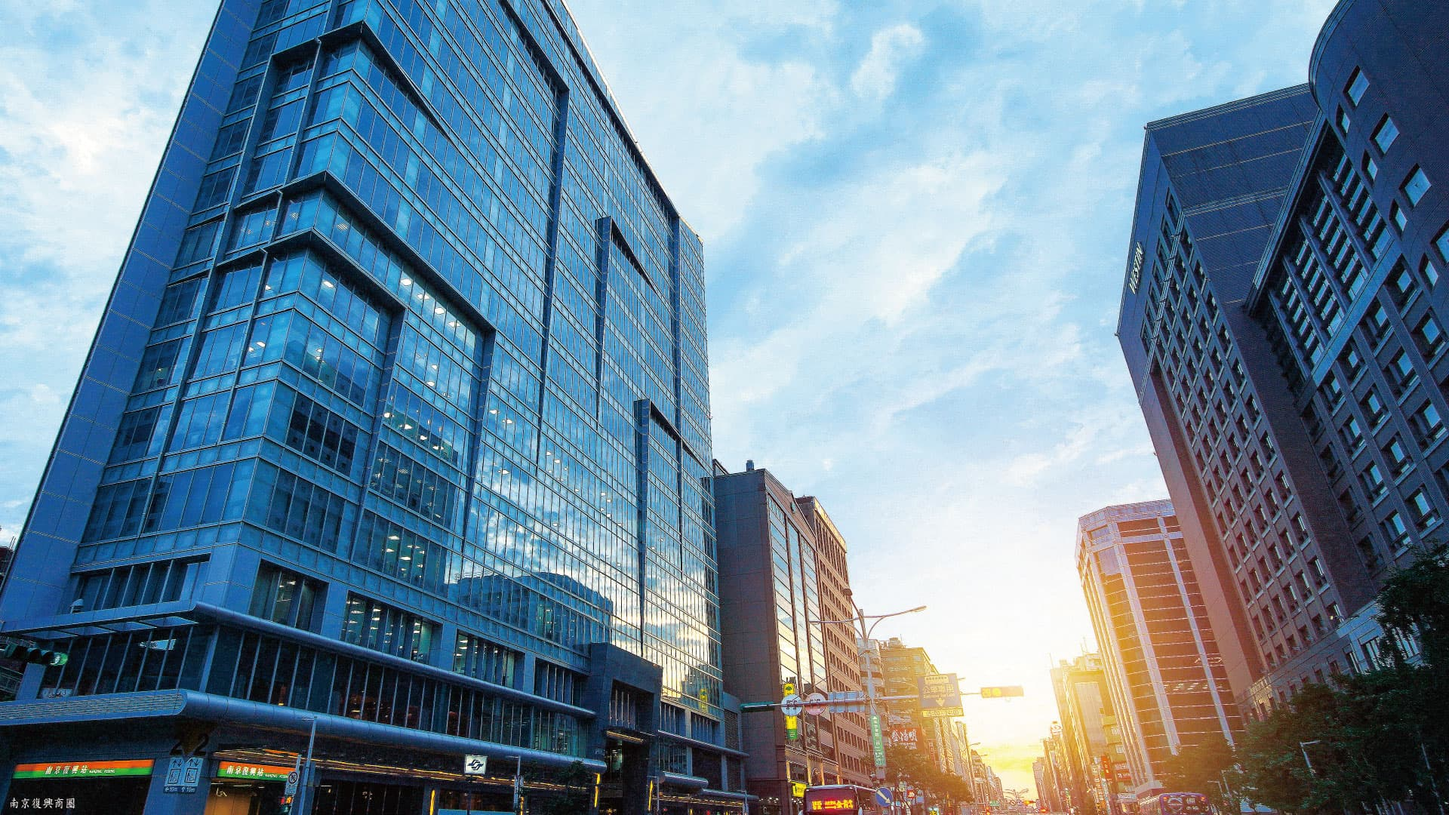
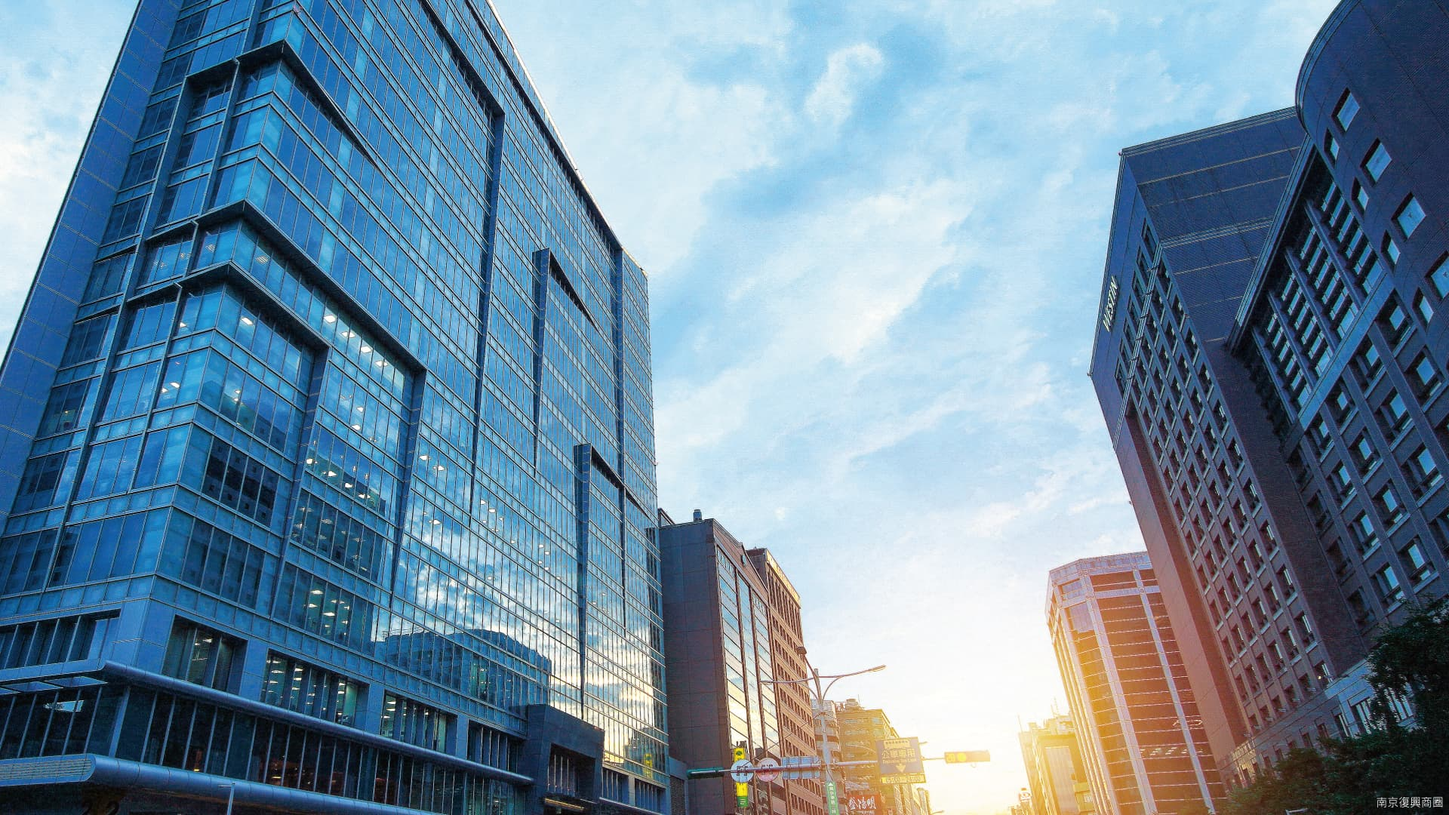
文案圖片修改

diff --git a/css/main.min.css b/css/main.min.css
@@ -1,2 +1,2 @@
-@font-face{font-family:MSungHK;src:url(../font/MSungHK-Medium.otf)}*,*::after,*::before{-webkit-box-sizing:border-box;box-sizing:border-box}html{font-size:16px}body{font-family:MSungHK, "微軟正黑體", "Microsoft JhengHei", "Century Gothic", CenturyGothic, AppleGothic, sans-serif}img{display:block}h1{font-family:MSungHK, "微軟正黑體", "Microsoft JhengHei", "Century Gothic", CenturyGothic, AppleGothic, sans-serif;font-weight:600;font-size:35px;color:#fff;letter-spacing:0.1px}h6{font-family:MSungHK, "微軟正黑體", "Microsoft JhengHei", "Century Gothic", CenturyGothic, AppleGothic, sans-serif;font-weight:300;font-size:16px;color:#fff}h3{margin-bottom:24px;color:#fff;font-size:32px;text-align:center}p{margin:0}.fontHei{font-family:"微軟正黑體", "Microsoft JhengHei", "Century Gothic", CenturyGothic, AppleGothic, sans-serif}.d_flex{display:-webkit-box;display:-ms-flexbox;display:flex;-webkit-box-pack:justify;-ms-flex-pack:justify;justify-content:space-between;-webkit-box-align:center;-ms-flex-align:center;align-items:center}.justify_start{-webkit-box-pack:start;-ms-flex-pack:start;justify-content:flex-start}.wrap{-ms-flex-wrap:wrap;flex-wrap:wrap}.bg_gold{background-color:#bf9d5a}.mt_3{margin-top:1.5rem}.mt_4{margin-top:2rem}.mb_3{margin-bottom:1.5rem}.mb_4{margin-bottom:2rem}.d_none{display:none !important}@media (max-width: 768px){.md_bg_gold{background-color:#bf9d5a}.d_md_none{display:none !important}.d_md_block{display:block !important}.d_md_block img{max-width:100%}.d_md_table{display:table !important}.d_md_table img{max-width:100%}.mb_md_0{margin-bottom:0}}#fp-nav{top:inherit;bottom:50px}#fp-nav ul li a span{background:#ffffff}.fp-controlArrow.fp-next{background-image:url("../images/desktop/Fillet_Right.png");border:none;width:52px;height:150px;opacity:0.5;right:0}.fp-controlArrow.fp-prev{background-image:url("../images/desktop/Fillet_Left.png");border:none;width:52px;height:150px;opacity:0.5;left:0}.fp-controlArrow.fp-next:hover{opacity:1}.fp-controlArrow.fp-prev:hover{opacity:1}@media screen and (max-width: 1280px){.fp-controlArrow.fp-next{border-width:25px 0 25px 21px}.fp-controlArrow.fp-prev{border-width:25px 21px 25px 0}}@media screen and (max-width: 768px){#fp-nav{display:none}}.Sec_img{position:relative;background-repeat:no-repeat;background-size:cover}.Sec0home{height:100vh;background-image:url(../images/desktop/s0bg.jpg);background-position:center top}.Sec0home_text{display:none}@media screen and (max-width: 900px){.Sec0home{background-image:url(../images/desktop/s0bg-md.jpg);background-position:center center}}@media screen and (max-width: 768px){.Sec0home_m{position:relative;height:100%;background-image:url(../images/mobile/m-s0bg-bg.jpg);background-position:55% center}.Sec0home_m::before{content:'';display:block;width:20%;max-width:120px;height:200px;background-image:url(../images/mobile/m-s0bg-1.png);background-repeat:no-repeat;background-size:contain;position:absolute;top:5%;left:5%;z-index:1}.Sec0home_m::after{content:'';display:block;width:50%;max-width:340px;height:180px;background-image:url(../images/mobile/m-s0bg-2.png);background-repeat:no-repeat;background-size:contain;position:absolute;top:5%;right:5%;z-index:1}.Sec0home_text{display:block;color:#fff;font-size:12px;position:absolute;bottom:48px;left:8px}}@media screen and (max-width: 480px){.Sec0home_m{background-position:55% 45%}.Sec0home_m::before{top:1rem;left:1rem}.Sec0home_m::after{top:1rem;right:1rem}}.p360{height:100%}@media screen and (min-width: 1920px){.view360.slide{display:none}.Sec1img1{height:100vh;background-image:url(../images/desktop/s1/sec1img01.jpg);background-position:right top}}@media (orientation: landscape){.view360.slide{display:none}.Sec1img1{height:100vh;background-image:url(../images/desktop/s1/sec1img01.jpg);background-position:right top}}@media (orientation: portrait){.view360.slide{display:table}.Sec1img1{display:none}}.Sec2_img{height:100vh;position:relative;background-repeat:no-repeat;background-size:cover;background-position:left top}.Sec2img1{background-image:url(../images/desktop/s2/sec2img01.jpg)}.Sec2img2{background-image:url(../images/desktop/s2/sec2img02.jpg)}.Sec2img3{background-image:url(../images/desktop/s2/sec2img03.jpg)}.Sec2img4{background-image:url(../images/desktop/s2/sec2img04.jpg)}.Sec2img5{background-image:url(../images/desktop/s2/sec2img05.jpg);background-position:right top}.Sec3_img{height:100vh;position:relative;background-repeat:no-repeat;background-size:cover;background-position:left top}.Sec3img1{background-image:url(../images/desktop/s3/sec3img01.jpg)}.Sec3img2{background-image:url(../images/desktop/s3/sec3img02.jpg)}.Sec3img3{background-image:url(../images/desktop/s3/sec3img03.jpg)}.Sec3img4{background-image:url(../images/desktop/s3/sec3img04.jpg);background-position:right top}.Sec3img5{background-image:url(../images/desktop/s3/sec3img05.jpg)}.Sec3img6{background-image:url(../images/desktop/s3/sec3img06.jpg)}.Sec3img7{background-image:url(../images/desktop/s3/sec3img07.jpg)}.Sec3img8{background-image:url(../images/desktop/s3/sec3img08.jpg)}.Sec3img9{background-image:url(../images/desktop/s3/sec3img09.jpg);background-position:right top}.Sec3img10{background-image:url(../images/desktop/s3/sec3img10.jpg)}.Sec3img11{background-image:url(../images/desktop/s3/sec3img11.jpg)}.Sec3img12{background-image:url(../images/desktop/s3/sec3img12.jpg)}.Sec4_img{height:100vh;position:relative;background-repeat:no-repeat;background-size:cover;background-position:center top}.Sec4img1{background-image:url(../images/desktop/s4/sec4img01.jpg)}.Sec4img2{background-image:url(../images/desktop/s4/sec4img02.jpg)}.Sec4img3{background-image:url(../images/desktop/s4/sec4img03.jpg)}.Sec4img4{background-image:url(../images/desktop/s4/sec4img04.jpg)}.desktop_slide{width:90%;max-width:calc(100% -280px)}.content_box{-webkit-box-flex:1;-ms-flex:1 1 280px;flex:1 1 280px;max-width:280px;height:100vh;display:-webkit-box;display:-ms-flexbox;display:flex;-webkit-box-orient:vertical;-webkit-box-direction:normal;-ms-flex-direction:column;flex-direction:column;-webkit-box-pack:center;-ms-flex-pack:center;justify-content:center;-webkit-box-align:center;-ms-flex-align:center;align-items:center;padding:0 48px;color:#fff;background-color:#003752}.content_box .vertical_write{margin-bottom:48px;font-size:24px;-webkit-writing-mode:vertical-lr;-ms-writing-mode:tb-lr;writing-mode:vertical-lr;line-height:1.5}.border_content{padding:48px 0;border-top:1px solid #fff;border-bottom:1px solid #fff;font-weight:normal;line-height:2}@media (max-width: 768px){.desktop_slide{width:100%}}.Sec5_img{height:100vh;position:relative;background-repeat:no-repeat;background-size:cover;background-position:left top}.Sec5img1{background-image:url(../images/desktop/s5/sec5img01.jpg)}.Sec5img2{background-image:url(../images/desktop/s5/sec5img02.jpg)}.Sec5img3{background-image:url(../images/desktop/s5/sec5img03.jpg)}.Sec5img4{background-image:url(../images/desktop/s5/sec5img04.jpg)}.group_slide_container{display:-webkit-box;display:-ms-flexbox;display:flex}.Sec6_img{-webkit-box-flex:1;-ms-flex:1 1 calc(100% - 280px);flex:1 1 calc(100% - 280px);height:100vh;position:relative;background-repeat:no-repeat;background-size:cover;background-position:right top}.Sec6img1{background-image:url(../images/desktop/s6/sec6img01.jpg)}.Sec6img2{background-image:url(../images/desktop/s6/sec6img02.jpg)}.Sec6img3{background-image:url(../images/desktop/s6/sec6img03.jpg)}.Sec6img4{background-image:url(../images/desktop/s6/sec6img04.jpg)}.Sec6img5{background-image:url(../images/desktop/s6/sec6img05.jpg)}.Sec6_content{-webkit-box-flex:1;-ms-flex:1 1 280px;flex:1 1 280px;max-width:280px;height:100vh;display:-webkit-box;display:-ms-flexbox;display:flex;position:relative;-webkit-box-pack:center;-ms-flex-pack:center;justify-content:center;-webkit-box-align:center;-ms-flex-align:center;align-items:center;-webkit-box-orient:vertical;-webkit-box-direction:normal;-ms-flex-direction:column;flex-direction:column}.main_content{max-width:200px;margin-bottom:3rem;color:#595757}.main_content img{max-width:100%}.Sec6_content_img{margin-bottom:1rem}.Sec6_content_title{margin-bottom:1rem;font-size:20px}.Sec6_content_title.bd_bottom{padding-bottom:1rem;border-bottom:1px solid #bf9d5a}.Sec6_content_title span{letter-spacing:-2px}.Sec6_content_text{font-size:14px;line-height:1.5;text-align:justify}.pos_title{width:100%;max-width:220px;color:#bf9d5a;font-size:42px;line-height:1;white-space:nowrap;position:absolute;bottom:7%}.pos_title span{letter-spacing:-1.5px}@media screen and (max-width: 768px){.life_md_bg{background-color:#bf9d5a}.group_slide img{max-width:100%}}.slide_content{max-width:460px;position:absolute;color:#fff}.slide_content.pos_right{right:3.5rem;top:5rem}.slide_content.pos_left{top:5rem;left:3.5rem}.slide_content .slide_title{margin-bottom:1.5rem;font-size:24px}.slide_content .slide_text{font-size:14px;line-height:1.8}.bg_repeat{background:url(../images/desktop/Bg_PC_01.jpg) center top repeat-y;background-size:contain}.intro{margin-bottom:100px}.intro a{color:#ffcc00}.table_wrapper{max-width:680px;margin:0 auto}.table_wrapper .table{width:100%}.table_wrapper h3{margin:0;color:#fff;font-size:24px;line-height:2.4rem;text-align:left}.table_wrapper td{color:#fff;border-bottom:1px solid rgba(255,255,255,0.5);font-size:18px;line-height:2.4rem}.google_map{max-width:100%;height:30vh;position:relative}.google_map iframe{width:100%;max-width:100%;height:100%;position:absolute;top:0;bottom:0;left:0;right:0}@media (max-width: 768px){.intro{padding-top:100px;padding-left:1.5rem;padding-right:1.5rem}.google_map{height:30vh}}@media (max-width: 480px){.table_wrapper h3{font-size:18px}.table_wrapper tbody tr td{padding:8px 0;font-size:12px}.intro{padding:0 1rem;margin-bottom:0}}.form_wrapper{max-width:710px;margin:0 auto}.form_title{margin-bottom:2rem;color:#fff;font-weight:bold}.form-control{height:auto;margin-bottom:1rem;font-size:1rem}.policy{margin-bottom:1rem;color:#fff;line-height:1.5}.form-check-label{margin-bottom:1.5rem;color:#fff;font-weight:normal;cursor:pointer}.form-check-label a{padding-left:4px;color:#ffcc00}.form-check-label a:hover{text-decoration:underline}.btn{color:#183149;border-radius:4px;background-color:#fff;font-family:MSungHK, "微軟正黑體", "Microsoft JhengHei", "Century Gothic", CenturyGothic, AppleGothic, sans-serif;font-size:20px;font-weight:bold;-webkit-transition:all .1s ease-in;transition:all .1s ease-in;cursor:pointer}.btn:hover{color:#183149;background-color:#ffcc00}.btn_secondary{color:#fff;background-color:#337ab7;border:0;font-weight:normal}@media (max-width: 996px){.btn_secondary{margin-bottom:1rem}}@media (max-width: 480px){.form_title{margin:0;margin-bottom:1rem;font-size:22px}.form-control,.btn_secondary{margin-bottom:.5rem}.form-control,.btn,.btn_secondary{font-size:15px}.policy{margin-bottom:8px;font-size:12px;letter-spacing:-1px}.form-check-label{margin-bottom:12px;font-size:12px}}.card{padding:1.5rem;color:#595757;background-color:#fff}.card_title{margin-bottom:1.5rem;font-size:1.6rem;text-align:center;line-height:1.5}.card_content{margin-bottom:1rem;padding:0 2rem;font-size:1.1rem;line-height:1.6}.card_gold{padding:1.5rem;color:#fff;background-color:#BF9D5A}.card_gold .card_title{margin-top:2rem}.card_gold .card_title.extra{margin-top:.5rem}.card_gold .card_content{margin-bottom:2rem}@media (max-width: 480px){.card,.card_gold{padding:1rem}.card_title{margin-bottom:1rem;font-size:18px}.card_content{padding:0 1rem;font-size:12px}.card_gold .card_title{margin-top:0}.letter_space{letter-spacing:-2px}}.footer{display:-webkit-box;display:-ms-flexbox;display:flex;-webkit-box-pack:justify;-ms-flex-pack:justify;justify-content:space-between;-webkit-box-align:center;-ms-flex-align:center;align-items:center;width:100%;height:40px;padding:0 48px;position:fixed;bottom:0;background-color:#183149;border-top:1px solid #ffffff;text-align:right;z-index:999}.footer ul{margin:0}.footer ul li{display:inline-block;font-size:17px;color:#ffffff;padding:0 4px;font-family:MSungHK, "微軟正黑體", "Microsoft JhengHei", "Century Gothic", CenturyGothic, AppleGothic, sans-serif}.footer ul li:first-of-type{padding-right:10px;border-right:1px solid #e5c058}.footer a{font-size:17px;color:#ffffff;text-decoration:none}.logo{width:128px;height:auto}.logo img{width:100%;height:100%;-o-object-fit:contain;object-fit:contain}@media screen and (max-width: 768px){.footer{padding:0 24px}}@media screen and (max-width: 480px){.footer{-webkit-box-pack:end;-ms-flex-pack:end;justify-content:flex-end;padding:0 8px}.logo{display:none}}
+@font-face{font-family:MSungHK;src:url(../font/MSungHK-Medium.otf)}*,*::after,*::before{-webkit-box-sizing:border-box;box-sizing:border-box}html{font-size:16px}body{font-family:MSungHK, "微軟正黑體", "Microsoft JhengHei", "Century Gothic", CenturyGothic, AppleGothic, sans-serif}img{display:block}h1{font-family:MSungHK, "微軟正黑體", "Microsoft JhengHei", "Century Gothic", CenturyGothic, AppleGothic, sans-serif;font-weight:600;font-size:35px;color:#fff;letter-spacing:0.1px}h6{font-family:MSungHK, "微軟正黑體", "Microsoft JhengHei", "Century Gothic", CenturyGothic, AppleGothic, sans-serif;font-weight:300;font-size:16px;color:#fff}h3{margin-bottom:24px;color:#fff;font-size:32px;text-align:center}p{margin:0}.fontHei{font-family:"微軟正黑體", "Microsoft JhengHei", "Century Gothic", CenturyGothic, AppleGothic, sans-serif}.d_flex{display:-webkit-box;display:-ms-flexbox;display:flex;-webkit-box-pack:justify;-ms-flex-pack:justify;justify-content:space-between;-webkit-box-align:center;-ms-flex-align:center;align-items:center}.justify_start{-webkit-box-pack:start;-ms-flex-pack:start;justify-content:flex-start}.wrap{-ms-flex-wrap:wrap;flex-wrap:wrap}.bg_gold{background-color:#bf9d5a}.mt_3{margin-top:1.5rem}.mt_4{margin-top:2rem}.mb_3{margin-bottom:1.5rem}.mb_4{margin-bottom:2rem}.d_none{display:none !important}@media (max-width: 768px){.md_bg_gold{background-color:#bf9d5a}.d_md_none{display:none !important}.d_md_block{display:block !important}.d_md_block img{max-width:100%}.d_md_table{display:table !important}.d_md_table img{max-width:100%}.mb_md_0{margin-bottom:0}}#fp-nav{top:inherit;bottom:50px}#fp-nav ul li a span{background:#ffffff}.fp-controlArrow.fp-next{background-image:url("../images/desktop/Fillet_Right.png");border:none;width:52px;height:150px;opacity:0.5;right:0}.fp-controlArrow.fp-prev{background-image:url("../images/desktop/Fillet_Left.png");border:none;width:52px;height:150px;opacity:0.5;left:0}.fp-controlArrow.fp-next:hover{opacity:1}.fp-controlArrow.fp-prev:hover{opacity:1}@media screen and (max-width: 1280px){.fp-controlArrow.fp-next{border-width:25px 0 25px 21px}.fp-controlArrow.fp-prev{border-width:25px 21px 25px 0}}@media screen and (max-width: 768px){#fp-nav{display:none}}.Sec_img{position:relative;background-repeat:no-repeat;background-size:cover}.Sec0home{height:100vh;background-image:url(../images/desktop/s0bg.jpg);background-position:center top}.Sec0home_text{display:none}@media screen and (max-width: 900px){.Sec0home{background-image:url(../images/desktop/s0bg-md.jpg);background-position:center center}}@media screen and (max-width: 768px){.Sec0home_m{position:relative;height:100%;background-image:url(../images/mobile/m-s0bg-bg.jpg);background-position:55% center}.Sec0home_m::before{content:'';display:block;width:20%;max-width:120px;height:200px;background-image:url(../images/mobile/m-s0bg-1.png);background-repeat:no-repeat;background-size:contain;position:absolute;top:5%;left:5%;z-index:1}.Sec0home_m::after{content:'';display:block;width:50%;max-width:340px;height:180px;background-image:url(../images/mobile/m-s0bg-2.png);background-repeat:no-repeat;background-size:contain;position:absolute;top:5%;right:5%;z-index:1}.Sec0home_text{display:block;color:#fff;font-size:12px;position:absolute;bottom:48px;left:8px}}@media screen and (max-width: 480px){.Sec0home_m{background-position:55% 45%}.Sec0home_m::before{top:1rem;left:1rem}.Sec0home_m::after{top:1rem;right:1rem}}.p360{height:100%}.panorama-container{background-color:#183149}.panorama-container img{top:-40px}@media screen and (min-width: 1920px){.view360.slide{display:none}.Sec1img1{height:100vh;background-image:url(../images/desktop/s1/sec1img01.jpg);background-position:right -40px}}@media (orientation: landscape){.view360.slide{display:none}.Sec1img1{height:100vh;background-image:url(../images/desktop/s1/sec1img01.jpg);background-position:right -40px}}@media (orientation: portrait){.view360.slide{display:table}.Sec1img1{display:none}}@media screen and (max-width: 768px){.bus-md-bg{background-color:#183149}}.Sec2_img{height:100vh;position:relative;background-repeat:no-repeat;background-size:cover;background-position:left top}.Sec2img1{background-image:url(../images/desktop/s2/sec2img01.jpg)}.Sec2img2{background-image:url(../images/desktop/s2/sec2img02.jpg)}.Sec2img3{background-image:url(../images/desktop/s2/sec2img03.jpg)}.Sec2img4{background-image:url(../images/desktop/s2/sec2img04.jpg)}.Sec2img5{background-image:url(../images/desktop/s2/sec2img05.jpg);background-position:right top}.Sec3_img{height:100vh;position:relative;background-repeat:no-repeat;background-size:cover;background-position:left top}.Sec3img1{background-image:url(../images/desktop/s3/sec3img01.jpg)}.Sec3img2{background-image:url(../images/desktop/s3/sec3img02.jpg)}.Sec3img3{background-image:url(../images/desktop/s3/sec3img03.jpg)}.Sec3img4{background-image:url(../images/desktop/s3/sec3img04.jpg);background-position:right top}.Sec3img5{background-image:url(../images/desktop/s3/sec3img05.jpg)}.Sec3img6{background-image:url(../images/desktop/s3/sec3img06.jpg)}.Sec3img7{background-image:url(../images/desktop/s3/sec3img07.jpg)}.Sec3img8{background-image:url(../images/desktop/s3/sec3img08.jpg)}.Sec3img9{background-image:url(../images/desktop/s3/sec3img09.jpg);background-position:right top}.Sec3img10{background-image:url(../images/desktop/s3/sec3img10.jpg)}.Sec3img11{background-image:url(../images/desktop/s3/sec3img11.jpg)}.Sec3img12{background-image:url(../images/desktop/s3/sec3img12.jpg)}.Sec4_img{height:100vh;position:relative;background-repeat:no-repeat;background-size:cover;background-position:center top}.Sec4img1{background-image:url(../images/desktop/s4/sec4img01.jpg)}.Sec4img2{background-image:url(../images/desktop/s4/sec4img02.jpg)}.Sec4img3{background-image:url(../images/desktop/s4/sec4img03.jpg)}.Sec4img4{background-image:url(../images/desktop/s4/sec4img04.jpg)}.desktop_slide{width:90%;max-width:calc(100% -280px)}.content_box{-webkit-box-flex:1;-ms-flex:1 1 280px;flex:1 1 280px;max-width:280px;height:100vh;display:-webkit-box;display:-ms-flexbox;display:flex;-webkit-box-orient:vertical;-webkit-box-direction:normal;-ms-flex-direction:column;flex-direction:column;-webkit-box-pack:center;-ms-flex-pack:center;justify-content:center;-webkit-box-align:center;-ms-flex-align:center;align-items:center;padding:0 48px;color:#fff;background-color:#003752}.content_box .vertical_write{margin-bottom:48px;font-size:24px;-webkit-writing-mode:vertical-lr;-ms-writing-mode:tb-lr;writing-mode:vertical-lr;line-height:1.5}.border_content{padding:48px 0;border-top:1px solid #fff;border-bottom:1px solid #fff;font-weight:normal;line-height:2}@media (max-width: 768px){.desktop_slide{width:100%}}.Sec5_img{height:100vh;position:relative;background-repeat:no-repeat;background-size:cover;background-position:left top}.Sec5img1{background-image:url(../images/desktop/s5/sec5img01.jpg)}.Sec5img2{background-image:url(../images/desktop/s5/sec5img02.jpg)}.Sec5img3{background-image:url(../images/desktop/s5/sec5img03.jpg)}.Sec5img4{background-image:url(../images/desktop/s5/sec5img04.jpg)}.group_slide_container{display:-webkit-box;display:-ms-flexbox;display:flex}.Sec6_img{-webkit-box-flex:1;-ms-flex:1 1 calc(100% - 280px);flex:1 1 calc(100% - 280px);height:100vh;position:relative;background-repeat:no-repeat;background-size:cover;background-position:right top}.Sec6img1{background-image:url(../images/desktop/s6/sec6img01.jpg)}.Sec6img2{background-image:url(../images/desktop/s6/sec6img02.jpg)}.Sec6img3{background-image:url(../images/desktop/s6/sec6img03.jpg)}.Sec6img4{background-image:url(../images/desktop/s6/sec6img04.jpg)}.Sec6img5{background-image:url(../images/desktop/s6/sec6img05.jpg)}.Sec6_content{-webkit-box-flex:1;-ms-flex:1 1 280px;flex:1 1 280px;max-width:280px;height:100vh;display:-webkit-box;display:-ms-flexbox;display:flex;position:relative;-webkit-box-pack:center;-ms-flex-pack:center;justify-content:center;-webkit-box-align:center;-ms-flex-align:center;align-items:center;-webkit-box-orient:vertical;-webkit-box-direction:normal;-ms-flex-direction:column;flex-direction:column}.main_content{max-width:200px;margin-bottom:3rem;color:#595757}.main_content img{max-width:100%}.Sec6_content_img{margin-bottom:1rem}.Sec6_content_title{margin-bottom:1rem;font-size:20px}.Sec6_content_title.bd_bottom{padding-bottom:1rem;border-bottom:1px solid #bf9d5a}.Sec6_content_title span{letter-spacing:-2px}.Sec6_content_text{font-size:14px;line-height:1.5;text-align:justify}.pos_title{width:100%;max-width:220px;color:#bf9d5a;font-size:42px;line-height:1;white-space:nowrap;position:absolute;bottom:7%}.pos_title span{letter-spacing:-1.5px}@media screen and (max-width: 768px){.life_md_bg{background-color:#bf9d5a}.group_slide img{max-width:100%}}.slide_content{max-width:460px;position:absolute;color:#fff}.slide_content.pos_right{right:3.5rem;top:5rem}.slide_content.pos_left{top:5rem;left:3.5rem}.slide_content .slide_title{margin-bottom:1.5rem;font-size:24px}.slide_content .slide_text{font-size:14px;line-height:1.8}.bg_repeat{background:url(../images/desktop/Bg_PC_01.jpg) center top repeat-y;background-size:contain}.intro{margin-bottom:100px}.intro a{color:#ffcc00}.table_wrapper{max-width:680px;margin:0 auto}.table_wrapper .table{width:100%}.table_wrapper h3{margin:0;color:#fff;font-size:24px;line-height:2.4rem;text-align:left}.table_wrapper td{color:#fff;border-bottom:1px solid rgba(255,255,255,0.5);font-size:18px;line-height:2.4rem}.google_map{max-width:100%;height:30vh;position:relative}.google_map iframe{width:100%;max-width:100%;height:100%;position:absolute;top:0;bottom:0;left:0;right:0}@media (max-width: 768px){.intro{padding-top:100px;padding-left:1.5rem;padding-right:1.5rem}.google_map{height:30vh}}@media (max-width: 480px){.table_wrapper h3{font-size:18px}.table_wrapper tbody tr td{padding:8px 0;font-size:12px}.intro{padding:0 1rem;margin-bottom:0}}.form_wrapper{max-width:710px;margin:0 auto}.form_title{margin-bottom:2rem;color:#fff;font-weight:bold}.form-control{height:auto;margin-bottom:1rem;font-size:1rem}.policy{margin-bottom:1rem;color:#fff;line-height:1.5}.form-check-label{margin-bottom:1.5rem;color:#fff;font-weight:normal;cursor:pointer}.form-check-label a{padding-left:4px;color:#ffcc00}.form-check-label a:hover{text-decoration:underline}.btn{color:#183149;border-radius:4px;background-color:#fff;font-family:MSungHK, "微軟正黑體", "Microsoft JhengHei", "Century Gothic", CenturyGothic, AppleGothic, sans-serif;font-size:20px;font-weight:bold;-webkit-transition:all .1s ease-in;transition:all .1s ease-in;cursor:pointer}.btn:hover{color:#183149;background-color:#ffcc00}.btn_secondary{color:#fff;background-color:#337ab7;border:0;font-weight:normal}@media (max-width: 996px){.btn_secondary{margin-bottom:1rem}}@media (max-width: 480px){.form_title{margin:0;margin-bottom:1rem;font-size:22px}.form-control,.btn_secondary{margin-bottom:.5rem}.form-control,.btn,.btn_secondary{font-size:15px}.policy{margin-bottom:8px;font-size:12px;letter-spacing:-1px}.form-check-label{margin-bottom:12px;font-size:12px}}.card{padding:1.5rem;color:#595757;background-color:#fff}.card_title{margin-bottom:1.5rem;font-size:1.6rem;text-align:center;line-height:1.5}.card_content{margin-bottom:1rem;padding:0 2rem;font-size:1.1rem;line-height:1.6}.card_gold{padding:1.5rem;color:#fff;background-color:#BF9D5A}.card_gold .card_title{margin-top:2rem}.card_gold .card_title.extra{margin-top:.5rem}.card_gold .card_content{margin-bottom:2rem}.card_bg_blue{color:#fff;background-color:#183149}@media (max-width: 480px){.card,.card_gold{padding:1rem}.card_title{margin-bottom:1rem;font-size:18px}.card_content{padding:0 1rem;font-size:12px}.card_gold .card_title{margin-top:0}.letter_space{letter-spacing:-2px}}.footer{display:-webkit-box;display:-ms-flexbox;display:flex;-webkit-box-pack:justify;-ms-flex-pack:justify;justify-content:space-between;-webkit-box-align:center;-ms-flex-align:center;align-items:center;width:100%;height:40px;padding:0 48px;position:fixed;bottom:0;background-color:#183149;border-top:1px solid #ffffff;text-align:right;z-index:999}.footer ul{margin:0}.footer ul li{display:inline-block;font-size:17px;color:#ffffff;padding:0 4px;font-family:MSungHK, "微軟正黑體", "Microsoft JhengHei", "Century Gothic", CenturyGothic, AppleGothic, sans-serif}.footer ul li:first-of-type{padding-right:10px;border-right:1px solid #e5c058}.footer a{font-size:17px;color:#ffffff;text-decoration:none}.logo{width:128px;height:auto}.logo img{width:100%;height:100%;-o-object-fit:contain;object-fit:contain}@media screen and (max-width: 768px){.footer{padding:0 24px}}@media screen and (max-width: 480px){.footer{-webkit-box-pack:center;-ms-flex-pack:center;justify-content:center;padding:0 8px}.logo{display:none}}
 /*# sourceMappingURL=main.min.css.map */

diff --git a/index.html b/index.html
@@ -44,6 +44,30 @@
         </div>
       </div>
     </div>
+    <!-- 公車 -->
+    <div class="section bus-md-bg">
+      <div class="slide">
+        <div class="Sec3_img Sec3img4 d_md_none">
+          <div class="slide_content pos_left">
+            <p class="slide_title">
+              「台北華爾街」南京金融大道<br />
+              企業發跡寶地 豪宅聚落風生水起</p>
+            <p class="slide_text fontHei">執掌台北經濟脈動，金融商辦、集團總部雲集，經貿往來川流不息。財氣匯聚藏富寶地，企業起家厝一致選址南京東路，事業興旺風生水起，百億身家從此發跡，見證南京大道繁華興起，豪宅聚落風光傳世。</p>
+          </div>
+        </div>
+        <div class="d_none d_md_block">
+          <div class="card card_bg_blue">
+            <img class="mb_4" src="images/mobile/s3/sec3img04.jpg" alt="">
+            <p class="card_title">
+              「台北華爾街」南京金融大道<br />
+              企業發跡寶地 豪宅聚落風生水起
+            </p>
+            <p class="card_content">
+              執掌台北經濟脈動，金融商辦、集團總部雲集，經貿往來川流不息。財氣匯聚藏富寶地，企業起家厝一致選址南京東路，事業興旺風生水起，百億身家從此發跡，見證南京大道繁華興起，豪宅聚落風光傳世。</p>
+          </div>
+        </div>
+      </div>
+    </div>
     <!-- 交通 -->
     <div class="section">
       <div class="slide">
@@ -195,24 +219,6 @@
             </p>
             <p class="card_content">御邸生活，豐饒是日常。南京金融商圈、兩座時尚微風、慶城遼寧美食聚落、四平陽光露天市集。繁華沃土富庶綻放，生活半徑輕取日常所需，城心優雅生活，歡迎入座。</p>
             <img src="images/mobile/s3/sec3img03.jpg" alt="">
-          </div>
-        </div>
-      </div>
-      <div class="slide">
-        <div class="Sec3_img Sec3img4 d_md_none">
-          <div class="slide_content pos_right">
-            <p class="slide_title">富居繁華城心 御邸生活 歡迎入座</p>
-            <p class="slide_text fontHei">御邸生活，豐饒是日常。南京金融商圈、兩座時尚微風、慶城遼寧美食聚落、四平陽光露天市集。繁華沃土富庶綻放，生活半徑輕取日常所需，城心優雅生活，歡迎入座。</p>
-          </div>
-        </div>
-        <div class="d_none d_md_block">
-          <div class="card_gold">
-            <p class="card_title">
-              富居繁華城心<br />
-              御邸生活 歡迎入座
-            </p>
-            <p class="card_content">御邸生活，豐饒是日常。南京金融商圈、兩座時尚微風、慶城遼寧美食聚落、四平陽光露天市集。繁華沃土富庶綻放，生活半徑輕取日常所需，城心優雅生活，歡迎入座。</p>
-            <img src="images/mobile/s3/sec3img04.jpg" alt="">
           </div>
         </div>
       </div>

diff --git a/css/main.css b/css/main.css
@@ -260,6 +260,14 @@ p {
   height: 100%;
 }
 
+.panorama-container {
+  background-color: #183149;
+}
+
+.panorama-container img {
+  top: -40px;
+}
+
 @media screen and (min-width: 1920px) {
   .view360.slide {
     display: none;
@@ -267,7 +275,7 @@ p {
   .Sec1img1 {
     height: 100vh;
     background-image: url(../images/desktop/s1/sec1img01.jpg);
-    background-position: right top;
+    background-position: right -40px;
   }
 }
 
@@ -278,7 +286,7 @@ p {
   .Sec1img1 {
     height: 100vh;
     background-image: url(../images/desktop/s1/sec1img01.jpg);
-    background-position: right top;
+    background-position: right -40px;
   }
 }
 
@@ -288,6 +296,12 @@ p {
   }
   .Sec1img1 {
     display: none;
+  }
+}
+
+@media screen and (max-width: 768px) {
+  .bus-md-bg {
+    background-color: #183149;
   }
 }
 
@@ -833,6 +847,11 @@ p {
   margin-bottom: 2rem;
 }
 
+.card_bg_blue {
+  color: #fff;
+  background-color: #183149;
+}
+
 @media (max-width: 480px) {
   .card,
   .card_gold {
@@ -918,9 +937,9 @@ p {
 
 @media screen and (max-width: 480px) {
   .footer {
-    -webkit-box-pack: end;
-        -ms-flex-pack: end;
-            justify-content: flex-end;
+    -webkit-box-pack: center;
+        -ms-flex-pack: center;
+            justify-content: center;
     padding: 0 8px;
   }
   .logo {

diff --git a/scss/_section.scss b/scss/_section.scss
@@ -82,6 +82,14 @@
 .p360 {
   height: 100%;
 }
+
+.panorama-container {
+  background-color: #183149;
+  img {
+    top: -40px;
+  }
+}
+
 @media screen and (min-width: 1920px) {
   .view360.slide {
     display: none;
@@ -89,7 +97,7 @@
   .Sec1img1 {
     height: 100vh;
     background-image: url(../images/desktop/s1/sec1img01.jpg);
-    background-position: right top;
+    background-position: right -40px;
   }
 }
 
@@ -100,7 +108,8 @@
   .Sec1img1 {
     height: 100vh;
     background-image: url(../images/desktop/s1/sec1img01.jpg);
-    background-position: right top;
+    background-position: right -40px;
+    // background-repeat: repeat-y;
   }
 }
 
@@ -111,6 +120,13 @@
   .Sec1img1 {
    display: none;
   }
+}
+// 公車
+@media screen and (max-width: 768px) {
+  .bus-md-bg {
+    background-color: #183149;
+  }
+
 }
 
 // 交通

diff --git a/js/main.js b/js/main.js
@@ -65,6 +65,7 @@ function init() {
       "7thPage",
       "8thPage",
       "9thPage",
+      "10thPage",
     ],
     slidesNavigation: true,
     loopHorizontal: false,

diff --git a/scss/_footer.scss b/scss/_footer.scss
@@ -51,7 +51,7 @@
 
 @media screen and (max-width: 480px) {
   .footer {
-    justify-content: flex-end;
+    justify-content: center;
     padding: 0 8px;
   }
   .logo {

diff --git a/scss/_card.scss b/scss/_card.scss
@@ -33,6 +33,11 @@
   }
 }
 
+.card_bg_blue {
+  color: #fff;
+  background-color: #183149;
+}
+
 @media (max-width: 480px) {
   .card,
   .card_gold {
